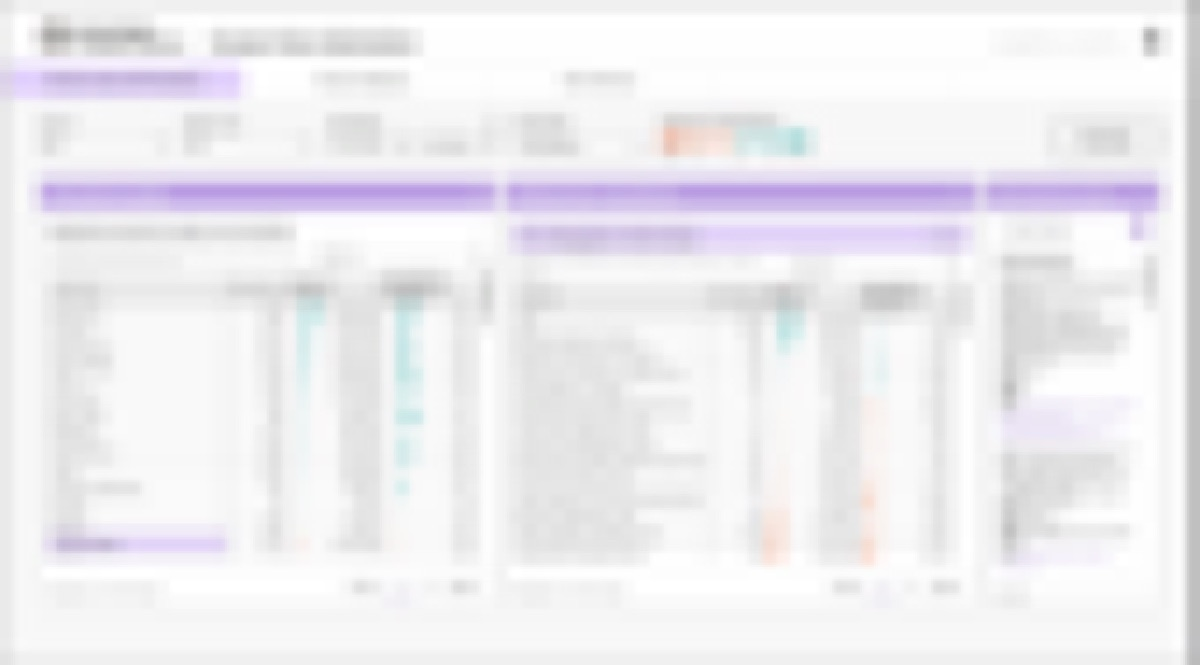
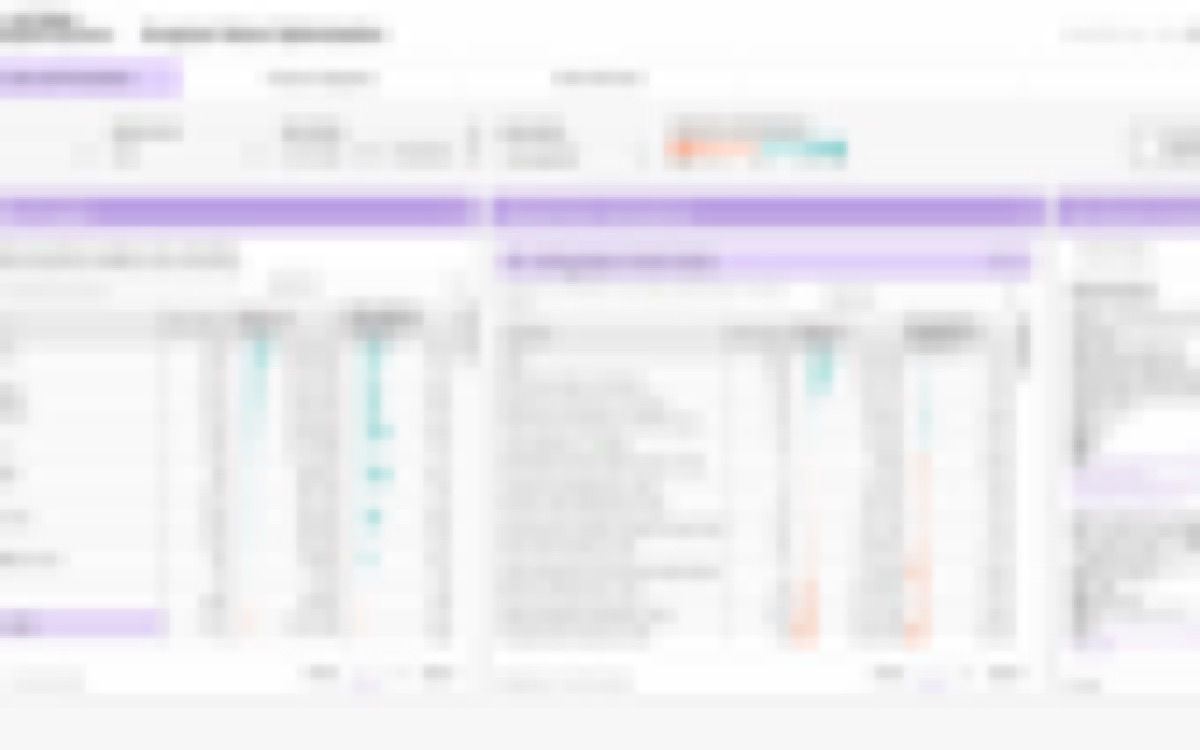
Blurred tiles: crop to 16:10 before the downscale
The blur pipeline scaled the source to 85px then forced it to 1200x750.
A single edge row at 85px became a ~15px grey band once blown back up,
which is the line on the top and bottom of the Sankey tile - it was my
processing, not the source. Both tiles are now inset 2%, centre-cropped
to 16:10, then blurred, so no edge pixel survives into the tiny stage.
Verified by sampling: top and bottom read pure white.

diff --git a/index.html b/index.html
@@ -97,7 +97,7 @@
              2025 spend prototype, so the blur is in the pixels. The sharp frame
              lives only inside the encrypted payload. -->
         <video class="tile__video" data-lazy-video
-               poster="assets/img/tools/healthcare-blur.jpg?v=20260810c"
+               poster="assets/img/tools/healthcare-blur.jpg?v=20260810e"
                width="1200" height="750"
                muted loop playsinline preload="none"
                style="width:100%;height:100%;object-fit:cover;display:block;background:#fff"
@@ -171,7 +171,7 @@
         <!-- Deliberately blurred: rebuilt from a 28px downscale, so the blur is
              in the pixels and cannot be removed. The sharp artwork lives only
              inside the encrypted payload. -->
-        <img src="assets/img/tools/surgical-sankey-blur.jpg?v=20260809f"
+        <img src="assets/img/tools/surgical-sankey-blur.jpg?v=20260810e"
              alt="A deliberately blurred Sankey dashboard. Shapes and color remain; every figure and label is unreadable."
              width="1200" height="600" loading="lazy">
       </div>
